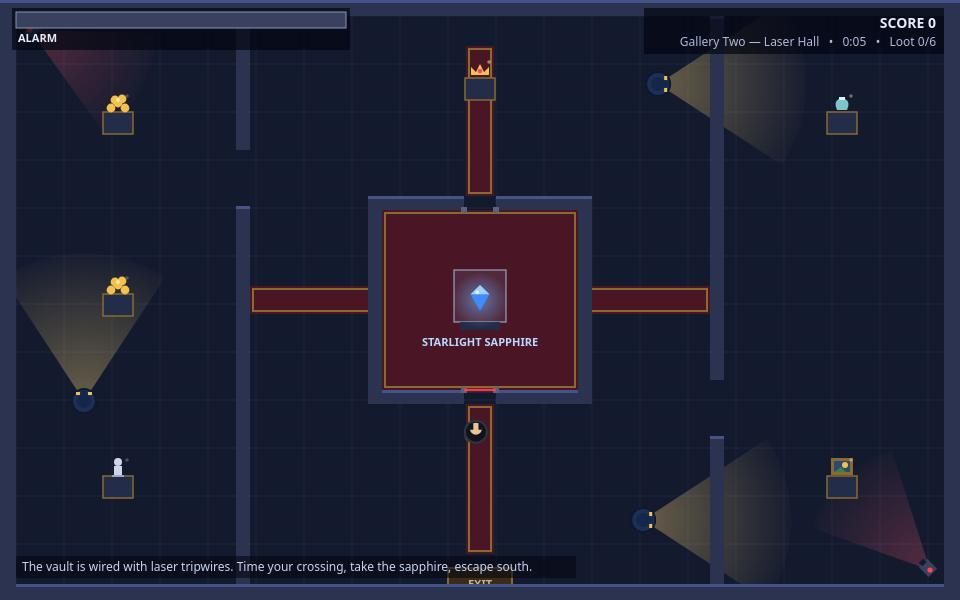
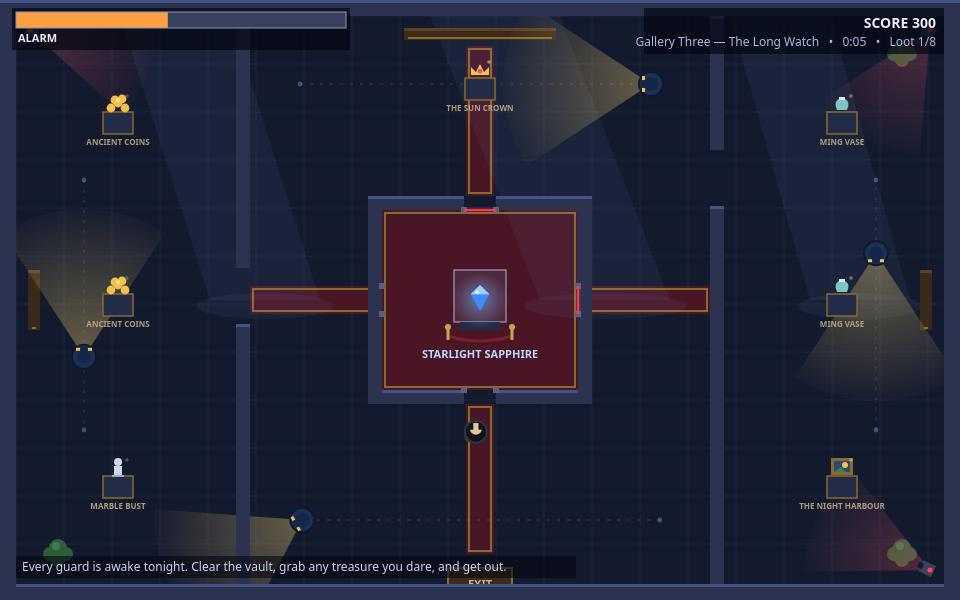
v3: five galleries, patrol routes, exhibit labels, getaway grades
- Levels 3 -> 5: Gallery Four (Crossfire) and Gallery Five (The Grand
  Vault) join the run; totals now 20 guards, 14 cameras, 37 treasures,
  17 laser tripwires across the five floors
- Guards look around while paused at a waypoint instead of freezing
- Dotted patrol routes printed on the floor so routes can be read
  before crossing; brass exhibit name plates under every pedestal;
  benches, potted palms and moonlight shafts dress the halls; a velvet
  rope guards the sapphire case
- Escape and win panels grade the getaway S/A/B/C from loot taken and
  peak alarm; title screen and README carry the new counts
- Play screenshot moves to Gallery Three with the alarm mid-fill

diff --git a/game/src/config.js b/game/src/config.js
@@ -40,6 +40,25 @@ export const LOOT_VALUES = {
   gem: 1000,
 };
 
+// The brass name plate engraved under each exhibit.
+export const LOOT_LABELS = {
+  coins: 'ANCIENT COINS',
+  vase: 'MING VASE',
+  statue: 'MARBLE BUST',
+  painting: 'THE NIGHT HARBOUR',
+  crown: 'THE SUN CROWN',
+  gem: 'STARLIGHT SAPPHIRE',
+};
+
+// Gallery furniture shared by every floor: benches along the walls and
+// potted palms in the corners. Pure dressing — the thief slips past both.
+function hallDecor() {
+  return {
+    benches: [[404, 28, 152, 12], [28, 270, 12, 60], [920, 270, 12, 60]],
+    plants: [{ x: 58, y: 554 }, { x: 902, y: 554 }, { x: 902, y: 54 }],
+  };
+}
+
 const BORDER = 16;
 
 // The central vault: four wall runs with a gap in the middle of the top and
@@ -77,6 +96,7 @@ export const LEVELS = [
     name: 'Gallery One — First Night',
     objective: 'Steal the Starlight Sapphire from the central vault, then slip out the south door.',
     playerStart: { x: 480, y: 528 },
+    decor: hallDecor(),
     walls: [...borderWalls(), ...vaultWalls(), ...galleryWalls(268, 268)],
     carpets: [
       [382, 210, 196, 180],
@@ -104,6 +124,7 @@ export const LEVELS = [
     name: 'Gallery Two — Laser Hall',
     objective: 'The vault is wired with laser tripwires. Time your crossing, take the sapphire, escape south.',
     playerStart: { x: 480, y: 528 },
+    decor: hallDecor(),
     walls: [...borderWalls(), ...vaultWalls(), ...galleryWalls(150, 380)],
     carpets: [
       [382, 210, 196, 180],
@@ -138,6 +159,7 @@ export const LEVELS = [
     name: 'Gallery Three — The Long Watch',
     objective: 'Every guard is awake tonight. Clear the vault, grab any treasure you dare, and get out.',
     playerStart: { x: 480, y: 528 },
+    decor: hallDecor(),
     walls: [...borderWalls(), ...vaultWalls(), ...galleryWalls(268, 150)],
     carpets: [
       [382, 210, 196, 180],
@@ -172,6 +194,99 @@ export const LEVELS = [
       { x1: 464, y1: 390, x2: 496, y2: 390, period: 2.2, offset: 1.1 },
       { x1: 382, y1: 286, x2: 382, y2: 314, period: 3.1, offset: 0.7 },
       { x1: 578, y1: 286, x2: 578, y2: 314, period: 3.1, offset: 2.2 },
+    ],
+  },
+  {
+    name: 'Gallery Four — Crossfire',
+    objective: 'Four cameras, five guards, beams in every doorway. The vault guard sweeps the north hall — cross behind him.',
+    playerStart: { x: 480, y: 528 },
+    decor: hallDecor(),
+    walls: [...borderWalls(), ...vaultWalls(), ...galleryWalls(380, 150)],
+    carpets: [
+      [382, 210, 196, 180],
+      [250, 286, 132, 28],
+      [578, 286, 132, 28],
+      [466, 404, 28, 150],
+      [466, 46, 28, 150],
+    ],
+    loots: [
+      { x: 118, y: 118, kind: 'coins' },
+      { x: 842, y: 118, kind: 'vase' },
+      { x: 118, y: 482, kind: 'statue' },
+      { x: 842, y: 482, kind: 'painting' },
+      { x: 480, y: 84, kind: 'crown' },
+      { x: 118, y: 300, kind: 'coins' },
+      { x: 842, y: 300, kind: 'vase' },
+      { x: 480, y: 516, kind: 'statue' },
+      { x: 262, y: 140, kind: 'coins' },
+    ],
+    guards: [
+      { path: [[300, 84], [660, 84]], speed: 82, pause: 0.5 },
+      { path: [[84, 430], [84, 180]], speed: 72, pause: 0.5 },
+      { path: [[876, 180], [876, 430]], speed: 72, pause: 0.5 },
+      { path: [[660, 520], [300, 520]], speed: 80, pause: 0.4 },
+      { path: [[330, 160], [630, 160]], speed: 76, pause: 0.7 },
+    ],
+    cameras: [
+      { x: 30, y: 30, base: 0.75, sweep: 0.55, speed: 0.85 },
+      { x: 930, y: 30, base: 2.35, sweep: 0.5, speed: 0.8 },
+      { x: 930, y: 570, base: -2.35, sweep: 0.5, speed: 0.85 },
+      { x: 30, y: 570, base: -0.75, sweep: 0.5, speed: 0.75 },
+    ],
+    lasers: [
+      { x1: 464, y1: 210, x2: 496, y2: 210, period: 2.4, offset: 0 },
+      { x1: 464, y1: 390, x2: 496, y2: 390, period: 2.4, offset: 1.2 },
+      { x1: 250, y1: 380, x2: 250, y2: 436, period: 2.8, offset: 0.5 },
+      { x1: 696, y1: 150, x2: 696, y2: 206, period: 2.8, offset: 1.9 },
+      { x1: 430, y1: 214, x2: 430, y2: 386, period: 3.4, offset: 0.9 },
+    ],
+  },
+  {
+    name: 'Gallery Five — The Grand Vault',
+    objective: 'The last night. Six guards, four cameras and a double-beamed vault between you and the fifth sapphire.',
+    playerStart: { x: 480, y: 528 },
+    decor: hallDecor(),
+    walls: [...borderWalls(), ...vaultWalls(), ...galleryWalls(268, 380)],
+    carpets: [
+      [382, 210, 196, 180],
+      [250, 286, 132, 28],
+      [578, 286, 132, 28],
+      [466, 404, 28, 150],
+      [466, 46, 28, 150],
+    ],
+    loots: [
+      { x: 118, y: 118, kind: 'coins' },
+      { x: 842, y: 118, kind: 'vase' },
+      { x: 118, y: 482, kind: 'statue' },
+      { x: 842, y: 482, kind: 'painting' },
+      { x: 480, y: 84, kind: 'crown' },
+      { x: 118, y: 300, kind: 'coins' },
+      { x: 842, y: 300, kind: 'vase' },
+      { x: 480, y: 516, kind: 'statue' },
+      { x: 262, y: 140, kind: 'coins' },
+      { x: 262, y: 470, kind: 'vase' },
+    ],
+    guards: [
+      { path: [[300, 84], [660, 84]], speed: 88, pause: 0.4 },
+      { path: [[84, 180], [84, 430]], speed: 78, pause: 0.4 },
+      { path: [[876, 430], [876, 180]], speed: 78, pause: 0.4 },
+      { path: [[300, 520], [660, 520]], speed: 86, pause: 0.4 },
+      { path: [[630, 160], [330, 160]], speed: 82, pause: 0.6 },
+      { path: [[330, 440], [630, 440]], speed: 82, pause: 0.6 },
+    ],
+    cameras: [
+      { x: 30, y: 30, base: 0.75, sweep: 0.55, speed: 0.9 },
+      { x: 930, y: 30, base: 2.35, sweep: 0.5, speed: 0.85 },
+      { x: 930, y: 570, base: -2.35, sweep: 0.5, speed: 0.95 },
+      { x: 30, y: 570, base: -0.75, sweep: 0.5, speed: 0.8 },
+    ],
+    lasers: [
+      { x1: 464, y1: 210, x2: 496, y2: 210, period: 2.2, offset: 0 },
+      { x1: 464, y1: 390, x2: 496, y2: 390, period: 2.2, offset: 1.1 },
+      { x1: 250, y1: 268, x2: 250, y2: 324, period: 2.6, offset: 0.4 },
+      { x1: 696, y1: 380, x2: 696, y2: 436, period: 2.6, offset: 1.7 },
+      { x1: 430, y1: 214, x2: 430, y2: 386, period: 3.2, offset: 0.6 },
+      { x1: 530, y1: 214, x2: 530, y2: 386, period: 3.2, offset: 2.2 },
     ],
   },
 ];

diff --git a/game/src/render.js b/game/src/render.js
@@ -2,7 +2,7 @@
 // A moonlit museum: deep blue stone floors, burgundy carpets, brass-trimmed
 // pedestals under glass, warm flashlight cones and cold camera fans.
 
-import { ALARM, CAMERA, EXIT, FIELD, GUARD } from './config.js';
+import { ALARM, CAMERA, EXIT, FIELD, GUARD, LOOT_LABELS } from './config.js';
 import { SCREEN_CAUGHT, SCREEN_PLAY, SCREEN_TITLE, SCREEN_WIN } from './world.js';
 
 const W = FIELD.width;
@@ -37,6 +37,67 @@ function drawFloor(ctx, world) {
     ctx.strokeStyle = '#8a6a2f';
     ctx.lineWidth = 2;
     ctx.strokeRect(x + 3, y + 3, w - 6, h - 6);
+  }
+  // moonlight falling through the high windows: three cold shafts that
+  // lean across the floor and pool where they land
+  ctx.fillStyle = 'rgba(140,175,255,0.055)';
+  for (const [x, lean, w] of [[120, 90, 110], [430, 110, 130], [730, 80, 100]]) {
+    ctx.beginPath();
+    ctx.moveTo(x, 16);
+    ctx.lineTo(x + w, 16);
+    ctx.lineTo(x + w + lean, 300);
+    ctx.lineTo(x + lean, 300);
+    ctx.closePath();
+    ctx.fill();
+    ctx.beginPath();
+    ctx.ellipse(x + lean + w / 2, 306, w * 0.62, 13, 0, 0, Math.PI * 2);
+    ctx.fill();
+  }
+}
+
+// Benches and potted palms: the furniture a real gallery floor has.
+function drawDecor(ctx, world) {
+  const decor = world.level.decor;
+  if (!decor) return;
+  for (const [x, y, w, h] of decor.benches) {
+    ctx.fillStyle = '#3a2a1a';
+    ctx.fillRect(x, y, w, h);
+    ctx.fillStyle = '#5a4128';
+    ctx.fillRect(x, y, w, 3);
+    ctx.fillStyle = '#8a6a2f';
+    ctx.fillRect(x + 4, y + h - 3, w - 8, 2);
+  }
+  for (const plant of decor.plants) {
+    ctx.fillStyle = '#6e4520';
+    ctx.beginPath(); ctx.arc(plant.x, plant.y + 6, 7, 0, Math.PI * 2); ctx.fill();
+    ctx.fillStyle = '#2e5d3a';
+    for (const [ox, oy, r] of [[0, -6, 9], [-8, 0, 7], [8, 0, 7], [0, 3, 8]]) {
+      ctx.beginPath(); ctx.arc(plant.x + ox, plant.y + oy, r, 0, Math.PI * 2); ctx.fill();
+    }
+    ctx.fillStyle = '#3f7d4e';
+    ctx.beginPath(); ctx.arc(plant.x - 2, plant.y - 8, 4, 0, Math.PI * 2); ctx.fill();
+  }
+}
+
+// The dotted patrol routes, printed on the floor like a security plan:
+// read a guard's route before you cross it.
+function drawPatrolRoutes(ctx, world) {
+  ctx.strokeStyle = 'rgba(160,180,230,0.16)';
+  ctx.lineWidth = 1.5;
+  ctx.setLineDash([3, 7]);
+  for (const guard of world.guards) {
+    ctx.beginPath();
+    guard.path.forEach(([px, py], i) => {
+      if (i === 0) ctx.moveTo(px, py); else ctx.lineTo(px, py);
+    });
+    ctx.stroke();
+  }
+  ctx.setLineDash([]);
+  ctx.fillStyle = 'rgba(160,180,230,0.35)';
+  for (const guard of world.guards) {
+    for (const [px, py] of guard.path) {
+      ctx.beginPath(); ctx.arc(px, py, 2.4, 0, Math.PI * 2); ctx.fill();
+    }
   }
 }
 
@@ -117,6 +178,11 @@ function drawLootItem(ctx, loot, time) {
   const tw = 0.5 + 0.5 * Math.sin(time * 2.4 + x);
   ctx.fillStyle = `rgba(255,240,190,${0.25 + 0.3 * tw})`;
   ctx.beginPath(); ctx.arc(x + 9, y - 22, 1.8, 0, Math.PI * 2); ctx.fill();
+  // the engraved brass name plate under the pedestal
+  ctx.fillStyle = 'rgba(201,180,137,0.85)';
+  ctx.font = 'bold 8px system-ui, sans-serif';
+  ctx.textAlign = 'center';
+  ctx.fillText(LOOT_LABELS[kind], x, y + 27);
 }
 
 function drawGem(ctx, world) {
@@ -152,10 +218,22 @@ function drawGem(ctx, world) {
   ctx.fillStyle = '#e8f5ff';
   ctx.beginPath(); ctx.arc(-3, -6, 2, 0, Math.PI * 2); ctx.fill();
   ctx.restore();
+  // the velvet rope on brass posts that keeps honest visitors back
+  ctx.strokeStyle = '#7a1f2b';
+  ctx.lineWidth = 3;
+  ctx.beginPath();
+  ctx.moveTo(x - 32, y + 36);
+  ctx.quadraticCurveTo(x, y + 46, x + 32, y + 36);
+  ctx.stroke();
+  ctx.fillStyle = '#c9a44e';
+  for (const px of [x - 32, x + 32]) {
+    ctx.fillRect(px - 1.5, y + 28, 3, 12);
+    ctx.beginPath(); ctx.arc(px, y + 27, 3, 0, Math.PI * 2); ctx.fill();
+  }
   ctx.fillStyle = '#bcd9ff';
   ctx.font = 'bold 11px system-ui, sans-serif';
   ctx.textAlign = 'center';
-  ctx.fillText('STARLIGHT SAPPHIRE', x, y + 46);
+  ctx.fillText('STARLIGHT SAPPHIRE', x, y + 58);
 }
 
 function drawLasers(ctx, world) {
@@ -281,6 +359,8 @@ function drawHud(ctx, world) {
 
 function drawPlay(ctx, world) {
   drawFloor(ctx, world);
+  drawDecor(ctx, world);
+  drawPatrolRoutes(ctx, world);
   drawExit(ctx, world);
   // vision cones under the actors but over the floor
   for (const guard of world.guards) {
@@ -327,7 +407,8 @@ export function render(ctx, world, ui) {
       'S A P P H I R E   H E I S T',
       '',
       'Sneak past the guards and cameras. Steal the Starlight Sapphire.',
-      '3 galleries • 9 guards • 6 cameras • 18 treasures • laser vault',
+      '5 galleries • 20 guards • 14 cameras • 37 treasures • 17 laser tripwires',
+      'Read the dotted patrol routes — a paused guard still looks around.',
       'WASD / Arrow keys to move • Hold SHIFT to sneak • M to mute',
       '',
       'Press ENTER or click to begin the heist',
@@ -344,14 +425,15 @@ export function render(ctx, world, ui) {
     ], '#ff6b7a');
   } else if (world.screen === SCREEN_WIN) {
     panel(ctx, 'CLEAN GETAWAY!', [
-      'All three galleries robbed blind. The museum will notice at dawn.',
-      `Final score: ${world.score}`,
+      'All five galleries robbed blind. The museum will notice at dawn.',
+      `Final gallery grade: ${world.grade ?? '—'}   •   Final score: ${world.score}`,
       '',
       'Press ENTER or click to run the whole heist again',
     ], '#4be38a');
   } else if (ui.transition > 0) {
     panel(ctx, 'ESCAPED!', [
-      `Gallery cleared. Score so far: ${world.score}`,
+      `${world.level.name} cleared — getaway grade ${world.grade ?? '—'}`,
+      `Loot ${world.lootTaken}/${world.loots.length}   •   Peak alarm ${Math.round(world.alarmPeak)}%   •   Score so far: ${world.score}`,
       '',
       'Press ENTER or click for the next gallery',
     ], '#4be38a');

diff --git a/game/src/world.js b/game/src/world.js
@@ -77,6 +77,8 @@ export function createWorld(levelIndex) {
     time: 0,
     score: 0,
     alarm: 0,
+    alarmPeak: 0, // highest the alarm climbed this gallery (for the grade)
+    grade: null, // S/A/B/C letter grade, set the moment the thief escapes
     spottedBy: 0, // how many eyes are on the thief this frame (for rendering)
     alarmFlash: 0,
     player: {
@@ -97,6 +99,7 @@ export function createWorld(levelIndex) {
       target: 1 % g.path.length,
       wait: 0,
       dir: Math.atan2(g.path[1 % g.path.length][1] - g.path[0][1], g.path[1 % g.path.length][0] - g.path[0][0]),
+      scanDir: Math.atan2(g.path[1 % g.path.length][1] - g.path[0][1], g.path[1 % g.path.length][0] - g.path[0][0]),
     })),
     cameras: level.cameras.map((c) => ({ ...c, dir: c.base })),
     lasers: level.lasers.map((l) => ({ ...l, wasTouching: false })),
@@ -110,6 +113,9 @@ export function createWorld(levelIndex) {
 function updateGuard(world, guard, dt) {
   if (guard.wait > 0) {
     guard.wait -= dt;
+    // A paused guard is not asleep: he looks left and right down the hall,
+    // so his cone sweeps while he stands at the end of his patrol.
+    guard.dir = guard.scanDir + Math.sin(world.time * 1.7 + guard.x * 0.05) * 0.55;
     return;
   }
   const [tx, ty] = guard.path[guard.target];
@@ -119,6 +125,7 @@ function updateGuard(world, guard, dt) {
   if (dist < 3) {
     guard.target = (guard.target + 1) % guard.path.length;
     guard.wait = guard.pauseTime;
+    guard.scanDir = guard.dir;
     return;
   }
   const vx = (dx / dist) * guard.speed;
@@ -215,6 +222,7 @@ export function updateWorld(world, input, dt) {
   }
   if (world.alarmFlash > 0) world.alarmFlash -= dt;
   world.alarm = clamp(world.alarm, 0, ALARM.max);
+  if (world.alarm > world.alarmPeak) world.alarmPeak = world.alarm;
 
   if (world.alarm >= ALARM.max) {
     world.screen = SCREEN_CAUGHT;
@@ -244,6 +252,11 @@ export function updateWorld(world, input, dt) {
     && player.y > EXIT.y - 6 && player.y < EXIT.y + EXIT.height) {
     const timeBonus = Math.max(0, 600 - Math.floor(world.time) * 2);
     world.score += timeBonus;
+    // Grade the getaway: a full sweep of the gallery, quietly done, is an S.
+    const lootFrac = world.loots.length ? world.lootTaken / world.loots.length : 1;
+    world.grade = lootFrac >= 1 && world.alarmPeak < 50 ? 'S'
+      : lootFrac >= 0.75 && world.alarmPeak < 80 ? 'A'
+        : lootFrac >= 0.5 ? 'B' : 'C';
     world.screen = world.levelIndex + 1 >= LEVELS.length ? SCREEN_WIN : SCREEN_ESCAPED;
     world.events.push('escape');
   }

diff --git a/game/src/shots.js b/game/src/shots.js
@@ -52,11 +52,13 @@ export function buildShotScene(name) {
     return { world, title: false };
   }
   if (name === 'play') {
-    // Second gallery: lasers live, the south guard's patrol crosses the
-    // thief's run for the vault's south gap and the alarm is climbing.
-    const world = createWorld(1);
+    // Third gallery: four guards, three cameras, lasers live — the south
+    // guard's patrol crosses the thief's run for the vault's south gap
+    // and the alarm is climbing.
+    const world = createWorld(2);
     playToward(world, [{ x: 480, y: 452 }, { x: 470, y: 428 }], 5.2);
     if (world.screen === SCREEN_CAUGHT) { world.screen = 'play'; world.alarm = 58; }
+    if (world.alarm < 30) world.alarm = 46; // the run has been noticed: bar mid-fill, orange
     return { world, title: false };
   }
   if (name === 'end') {

diff --git a/README.md b/README.md
@@ -4,7 +4,7 @@
 [![rank](https://make.fun/badge/best-heist-game-20261122-0559/cza999/moonlit-museum-heist/rank.svg)](https://make.fun/bounty/best-heist-game-20261122-0559/leaderboard?utm_source=github&utm_medium=readme&utm_campaign=best-heist-game-20261122-0559)
 [![reward](https://make.fun/badge/best-heist-game-20261122-0559/cza999/moonlit-museum-heist/reward.svg)](https://make.fun/bounty/best-heist-game-20261122-0559?utm_source=github&utm_medium=readme&utm_campaign=best-heist-game-20261122-0559)
 
-Moonlit Museum: Sapphire Heist is a top-down stealth game in plain JavaScript and canvas: sneak a thief through three moonlit museum galleries — 9 guards, 6 cameras, 18 treasures, laser tripwires — dodge guard flashlight cones and sweeping security cameras, steal the Starlight Sapphire and every treasure you dare, and escape before the alarm meter fills. No build step and no network requests — the game is static files under `game/`, with sound synthesized live in WebAudio.
+Moonlit Museum: Sapphire Heist is a top-down stealth game in plain JavaScript and canvas: sneak a thief through five moonlit museum galleries — 20 guards, 14 cameras, 37 treasures, 17 laser tripwires — dodge guard flashlight cones and sweeping security cameras, read the dotted patrol routes (a paused guard still looks around), steal the Starlight Sapphire and every treasure you dare, and escape before the alarm meter fills. Each gallery is graded S/A/B/C on loot taken and how high the alarm climbed. No build step and no network requests — the game is static files under `game/`, with sound synthesized live in WebAudio.
 
 ## Run it
 
